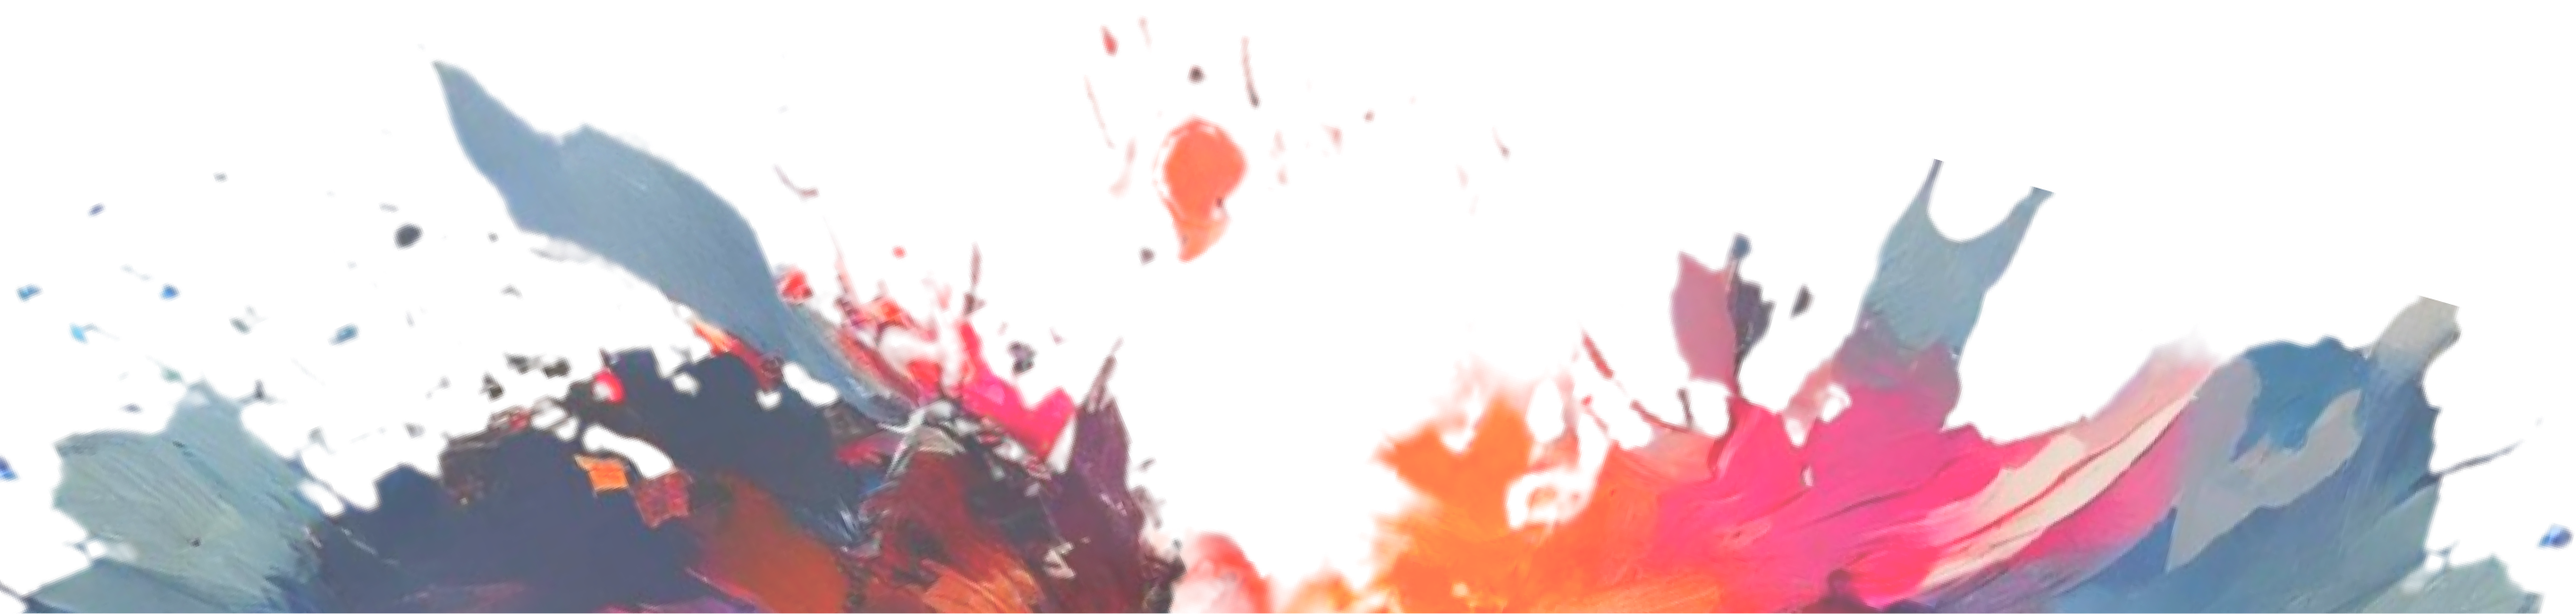
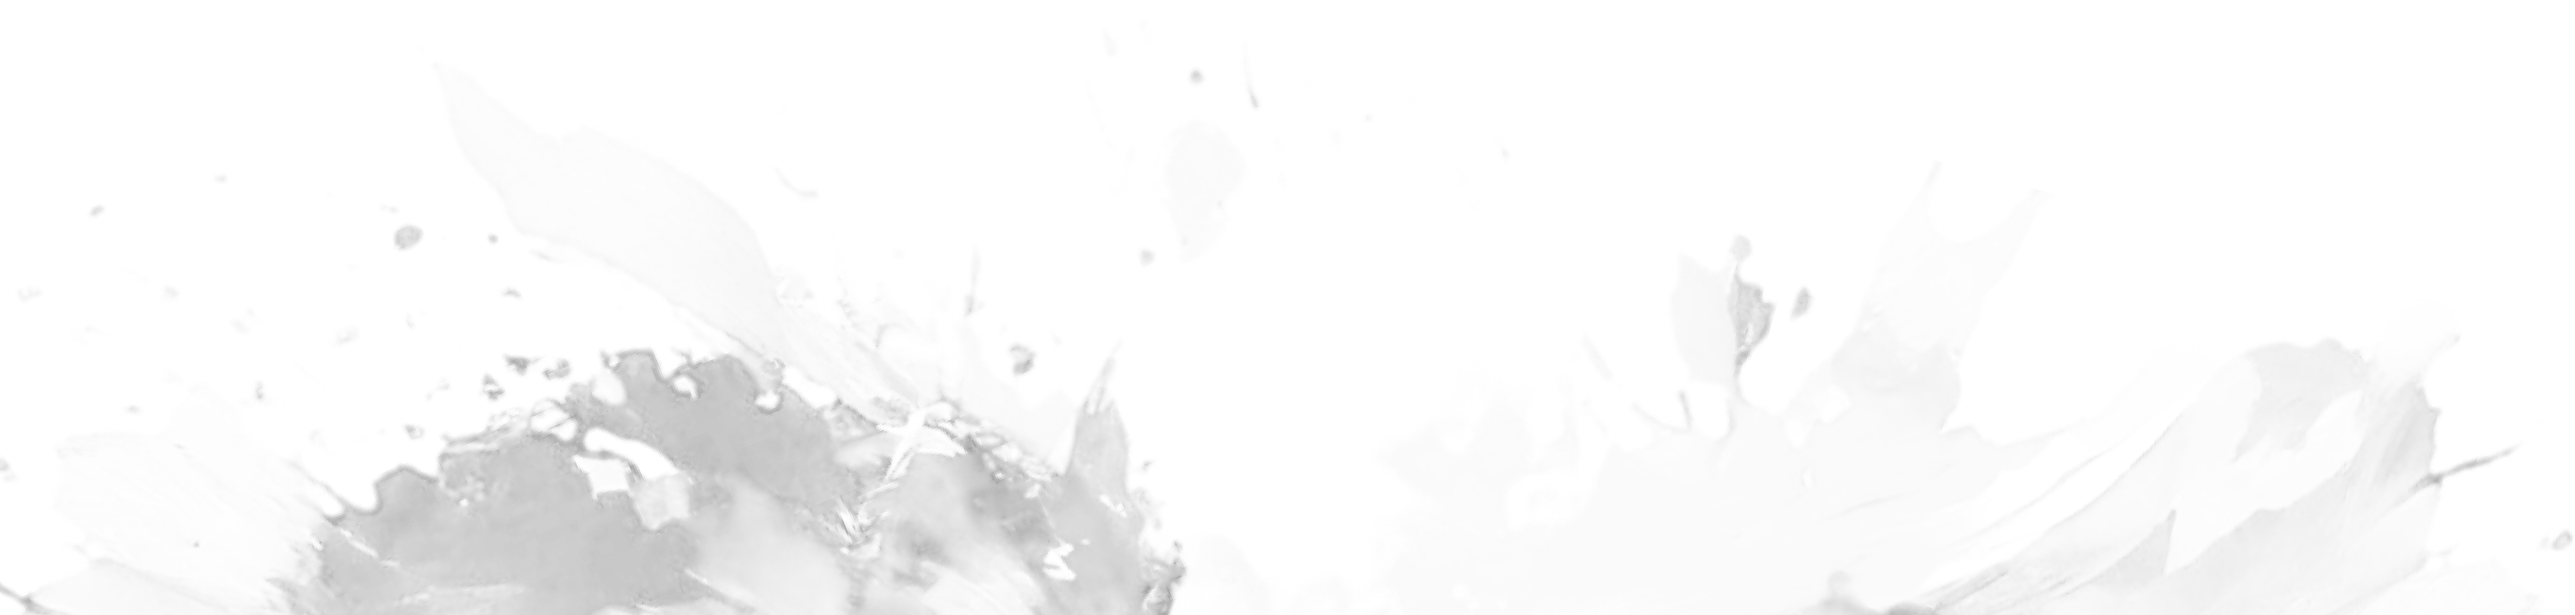
new style theme color root

diff --git a/src/app/globals.css b/src/app/globals.css
@@ -20,16 +20,12 @@
     height: 100vh;
     position: relative;
     font-size: 1.6rem;
-    color: rgb(var(--foreground-rgb));
-    background: linear-gradient(
-      to bottom left, 
-      rgb(var(--background-end-rgb)), 
-      rgb(var(--background-start-rgb))70%
-    )
+    color: rgb(255, 255, 255);
+    background: black;
   } 
 
   span {
-    color: rgb(var(--theme-font-rgb));
+    color: gray;
   }
 
   @media (min-width: 2560px) {
@@ -65,37 +61,31 @@
   }
 
   .ld{
-    color: rgb(var(--theme-font-rgb));
+    color: gray;
     transition: 0.3s;
-    border-color: rgb(var(--theme-font-rgb));
-  }
-
-  .ims{
-    background-image: var(--moon-sun-image);
-    background-color: rgb(var(--foreground-rgb));
-    background-size: 80%;
+    border-color: gray;
   }
 
   .old{
-    background-color: rgba(var(--foreground-rgba));
+    background-color: rgba(255, 255, 255, 0.20);
   }
 
   .select{
-    color: rgba(var(--theme-font-rgb));
-    border-bottom: 1px solid rgba(var(--theme-font-rgb));
+    color: gray;
+    border-bottom: 1px solid gray;
   }
 
   .bgb{
-    background-color: rgb(var(--foreground-rgb));
-    color: rgb(var(--foreground-rv-rgb));
+    background-color: rgb(255, 255, 255);
+    color: rgb(0, 0, 0);
   }
 
   .trans{
-    background: rgba(var(--foreground-about-rgba));
+    background: rgba(255, 255, 255, 0.20);
   }
 
   .bor{
-    border: 1px solid rgb(var(--foreground-rgb));
+    border: 1px solid rgb(255, 255, 255);
     border-radius: 20px;
   }
 
@@ -103,8 +93,8 @@
     border-radius: 0 0 20px 20px;
     border-bottom: 90px solid transparent;
     border-right: 60px solid transparent;
-    border-top: 60px solid rgba(var(--foreground-rgba));
-    border-left: 90px solid rgba(var(--foreground-rgba));
+    border-top: 60px solid rgba(255, 255, 255, 0.20);
+    border-left: 90px solid rgba(255, 255, 255, 0.20);
   }
 
   .sun,.moon{
@@ -123,27 +113,35 @@
     position: absolute;
     right: 0;
     top: 0;
-    background: #1e1e1e;
+    background: black;
     transform: translate3d(10px, -10px, 0) scale(0.9);
     transition: transform .1s;
   }
 
   .swiper .swiper-button-prev{ 
-    color: rgb(var(--theme-font-rgb))
+    color: gray;
    }
  
   .swiper .swiper-button-next{
-    color: rgb(var(--theme-font-rgb))
+    color: gray;
    }
 
   .swiper .swiper-pagination-bullet-active{
-    background-color: rgb(var(--theme-font-rgb))
+    background-color: gray;
+   }
+
+   .swiper .swiper-pagination-bullet{
+    background-color: gray;
    }
 
   #bullet .swiper .swiper-pagination-bullet-active{
-    background-color: rgb(var(--theme-font-rgb));
+    background-color: gray;
     display: flex;
     position: absolute;
+   }
+
+   #bullet .swiper .swiper-pagination-bullet{
+    background-color: gray;
    }
 
    .swiper {
@@ -199,7 +197,7 @@
      0 0 50px gray,
      0 0 100px gray;
      animation: animar calc(150s / var(--speed)) linear infinite;
-     opacity: 0.2;
+     opacity: 0.1;
   }
 
   .boom span{
@@ -212,7 +210,7 @@
      0 0 50px gray,
      0 0 100px gray;
      animation: animar calc(150s / var(--speed)) linear infinite;
-     opacity: 0.2;
+     opacity: 0.1;
   }
 
   #a{animation: animar calc(150s / 20) linear infinite;}
@@ -243,14 +241,4 @@
      0 0 50px gray,
      0 0 100px gray;
     }
-}
-
-  :root{
-    --theme-font-rgb: 208, 108, 47;
-    --foreground-rgb: 255, 255, 255;
-    --foreground-rv-rgb: 0, 0, 0;
-    --foreground-rgba: 255, 255, 255, 0.20;
-    --foreground-about-rgba: 0, 0, 0, 0.05;
-    --background-start-rgb: 30, 30, 30;
-    --background-end-rgb: 0, 0, 0;
-  }
+} 

diff --git a/src/app/components/File.tsx b/src/app/components/File.tsx
@@ -29,7 +29,7 @@ export default function File(){
             <div className='flex justify-center space-x-[50px] max-[600px]:flex-wrap max-[600px]:space-x-0 max-[600px]:space-y-[30px]'>
 
                 <a href="https://lucasbdoficial.github.io/p_singlepage/" 
-                    className="old border-[1px]  border-orange group w-[45%] h-[30rem] rounded-[20px] relative overflow-hidden max-[1024px]:w-[40%] max-[600px]:w-[90%]">
+                    className="old border-[1px]  border-gary-5000 group w-[45%] h-[30rem] rounded-[20px] relative overflow-hidden max-[1024px]:w-[40%] max-[600px]:w-[90%]">
 
                                 <Image src="/images/singlepage.jpg" alt="imagem de tinta" width={2000} height={2000} 
                                         className=" w-full h-full absolute"/> 
@@ -45,7 +45,7 @@ export default function File(){
                 </a>
 
                 <a href="https://lucasbdoficial.github.io/p_linkpage/" 
-                    className="old border-[1px] border-orange group w-[45%] h-[30rem] rounded-[20px] relative overflow-hidden max-[1024px]:w-[40%] max-[600px]:w-[90%]">
+                    className="old border-[1px] border-gray-500 group w-[45%] h-[30rem] rounded-[20px] relative overflow-hidden max-[1024px]:w-[40%] max-[600px]:w-[90%]">
 
                                 <Image src="/images/linkpage.jpg" alt="imagem de tinta" width={2000} height={2000} 
                                         className=" w-full h-full absolute"/> 

diff --git a/src/app/Gallery/page.tsx b/src/app/Gallery/page.tsx
@@ -17,18 +17,15 @@ export default function Gallery(){
         }
     }>
             <Image src="/images/gallery1.png" alt="imagem de tinta" width={250} height={0} 
-                    className=" absolute top-0 left-0 z-0 animate-pulse "/>
+                    className=" absolute top-0 left-0 z-0 animate-pulse opacity-5"/>
 
             <Image src="/images/gallery2.png" alt="imagem de tinta" width={250} height={0} 
-                    className=" absolute top-0 right-0 z-0 animate-pulse "/>
+                    className=" absolute top-0 right-0 z-0 animate-pulse opacity-5"/>
 
             <div className="flex flex-wrap justify-center mt-[100px] relative w-full max-[500px]:mt-[60px]">
 
                 <TypeIt id="textd" className=" w-full text-center px-[2%] text-white font-black text-[3.5rem] 
                         max-[844px]:mr-[50px] max-[768px]:mr-[0px] max-[768px]:text-center max-[600px]:h-[80px] ">Tansformando ideias em realidade</TypeIt>
-
-                <TypeIt id="textl" className="hidden w-full text-center px-[2%] text-black font-black text-[3.5rem] 
-                        max-[844px]:mr-[50px] max-[768px]:mr-[0px] max-[768px]:text-center  max-[600px]:h-[80px] ">Tansformando ideias em realidade</TypeIt>
                              
                 <File />
 

diff --git a/src/app/page.tsx b/src/app/page.tsx
@@ -18,18 +18,15 @@ export default function Home() {
     }> 
 
       <Image src="/images/home2.png" alt="imagem de tinta" width={200} height={200} 
-        className="absolute top-0 right-0 z-0"/>
+        className="absolute top-0 right-0 z-0 opacity-40"/>
 
       <div className="w-[50%] relative flex flex-col justify-center  mt-[30px] max-[900px]:w-full">     
 
           <Image src="/images/home1.png" alt="image de tinta" width={550} height={550} 
-            className="absolute z-0 ml-[25%] mt-[30px] max-[600px]:right-[0]"/>
+            className="absolute z-0 ml-[25%] mt-[30px] max-[600px]:right-[0] opacity-40"/>
     
-          <Image src="/images/perfil.png" alt="foto de perfil" width={470} height={470} 
-            className="relative mx-auto pr-[9px] z-20" id="image1"/>
-
-          <Image src="/images/perfil2.png" alt="foto de perfil" width={470} height={470} 
-            className="relative mx-auto pr-[9px] hidden z-20" id="image2"/>
+          <Image src="/images/perfil.png" alt="foto de perfil" width={350} height={350} 
+            className="relative mx-auto pr-[9px] z-20 mt-[30px]" id="image1"/>
             
           <div className="sun old  mx-auto mt-[-20px] z-20 ">
             <samp id="sun" className=" moon"></samp>

diff --git a/src/app/Work/page.tsx b/src/app/Work/page.tsx
@@ -16,13 +16,13 @@ export default function Work(){
         }
     }>
             <Image src="/images/work1.png" alt="imagem de tinta" width={350} height={0} 
-                    className=" absolute top-0 z-0 animate-pulse "/>
+                    className=" absolute top-0 z-0 animate-pulse opacity-5"/>
 
             <Image src="/images/work2.png" alt="imagem de tinta" width={250} height={0} 
-                    className=" absolute bottom-0 left-0 z-0 animate-pulse "/>
+                    className=" absolute bottom-0 left-0 z-0 animate-pulse opacity-5"/>
 
             <Image src="/images/work3.png" alt="imagem de tinta" width={200} height={0} 
-                className=" absolute bottom-0 right-0 z-0 animate-pulse "/>
+                className=" absolute bottom-0 right-0 z-0 animate-pulse opacity-5"/>
 
             <div className="flex flex-wrap justify-center relative w-full">
 

diff --git a/src/app/components/Navbar.tsx b/src/app/components/Navbar.tsx
@@ -17,7 +17,7 @@ export function Navbar() {
             <ul className="old py-11 px-2 rounded-full flex flex-col space-y-8 min-mt-90
                 max-sm:rounded-none max-sm:flex-row max-sm:py-2 max-sm:justify-center max-sm:px-0 max-sm:space-y-0 max-sm:space-x-10">
 
-                <a href="/" className="group items-center flex" >      
+                <a href="/" className="group items-center flex">      
                     <p className="absolute right-[54px] bgb py-1 px-2 rounded-md text-lg italic hidden sm:group-hover:flex z-10 group:">Início</p>
                     <i className="w-5 h-5 bgb rotate-45 rounded-md absolute right-[50px] hidden sm:group-hover:flex" /> 
                         <svg className="hover:ld  " 

diff --git a/src/app/About/page.tsx b/src/app/About/page.tsx
@@ -17,7 +17,7 @@ export default function About(){
     }>
 
         <Image src="/images/about.png" alt="imagem de tinta" width={10000} height={0} 
-                className=" absolute bottom-0 w-full min-[500px]:h-[200px] z-0 animate-pulse "/>
+                className=" absolute bottom-0 w-full min-[500px]:h-[200px] z-0 animate-pulse opacity-5"/>
 
         <div className="flex flex-wrap absolute z-10 max-[900px]:flex-col">
 

diff --git a/src/app/components/ParticlesGray.tsx b/src/app/components/ParticlesGray.tsx
@@ -54,7 +54,7 @@ export default function ParticlesGray() {
                     value: '#A47F7F',
                 },
                 links: {
-                    color: '#C1A3A3',
+                    color: '#1e1e1e',
                     distance: 150,
                     enable: true,
                     opacity: 0.5,
